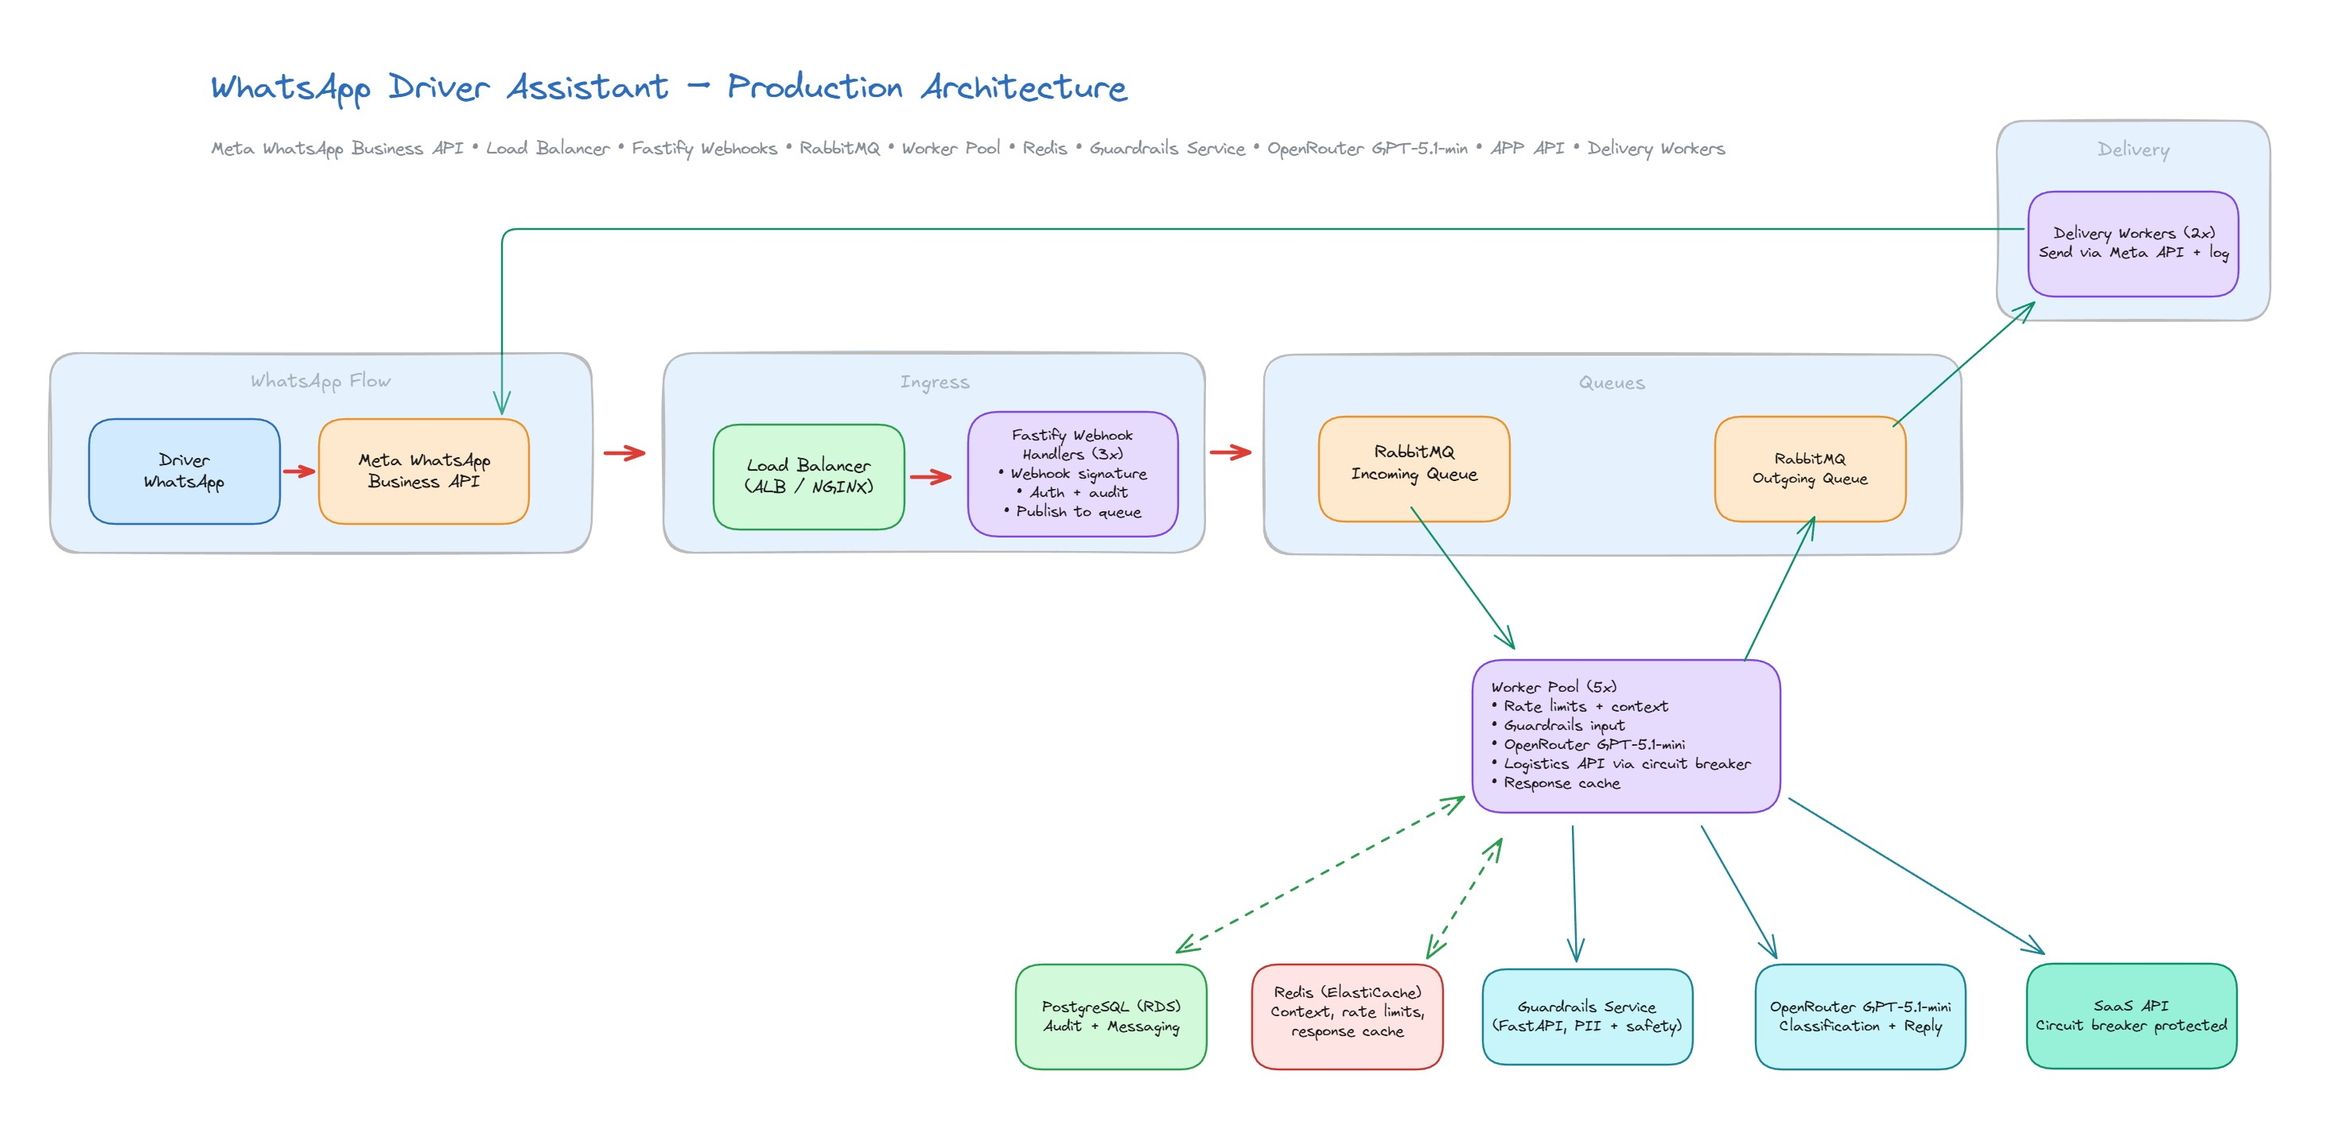
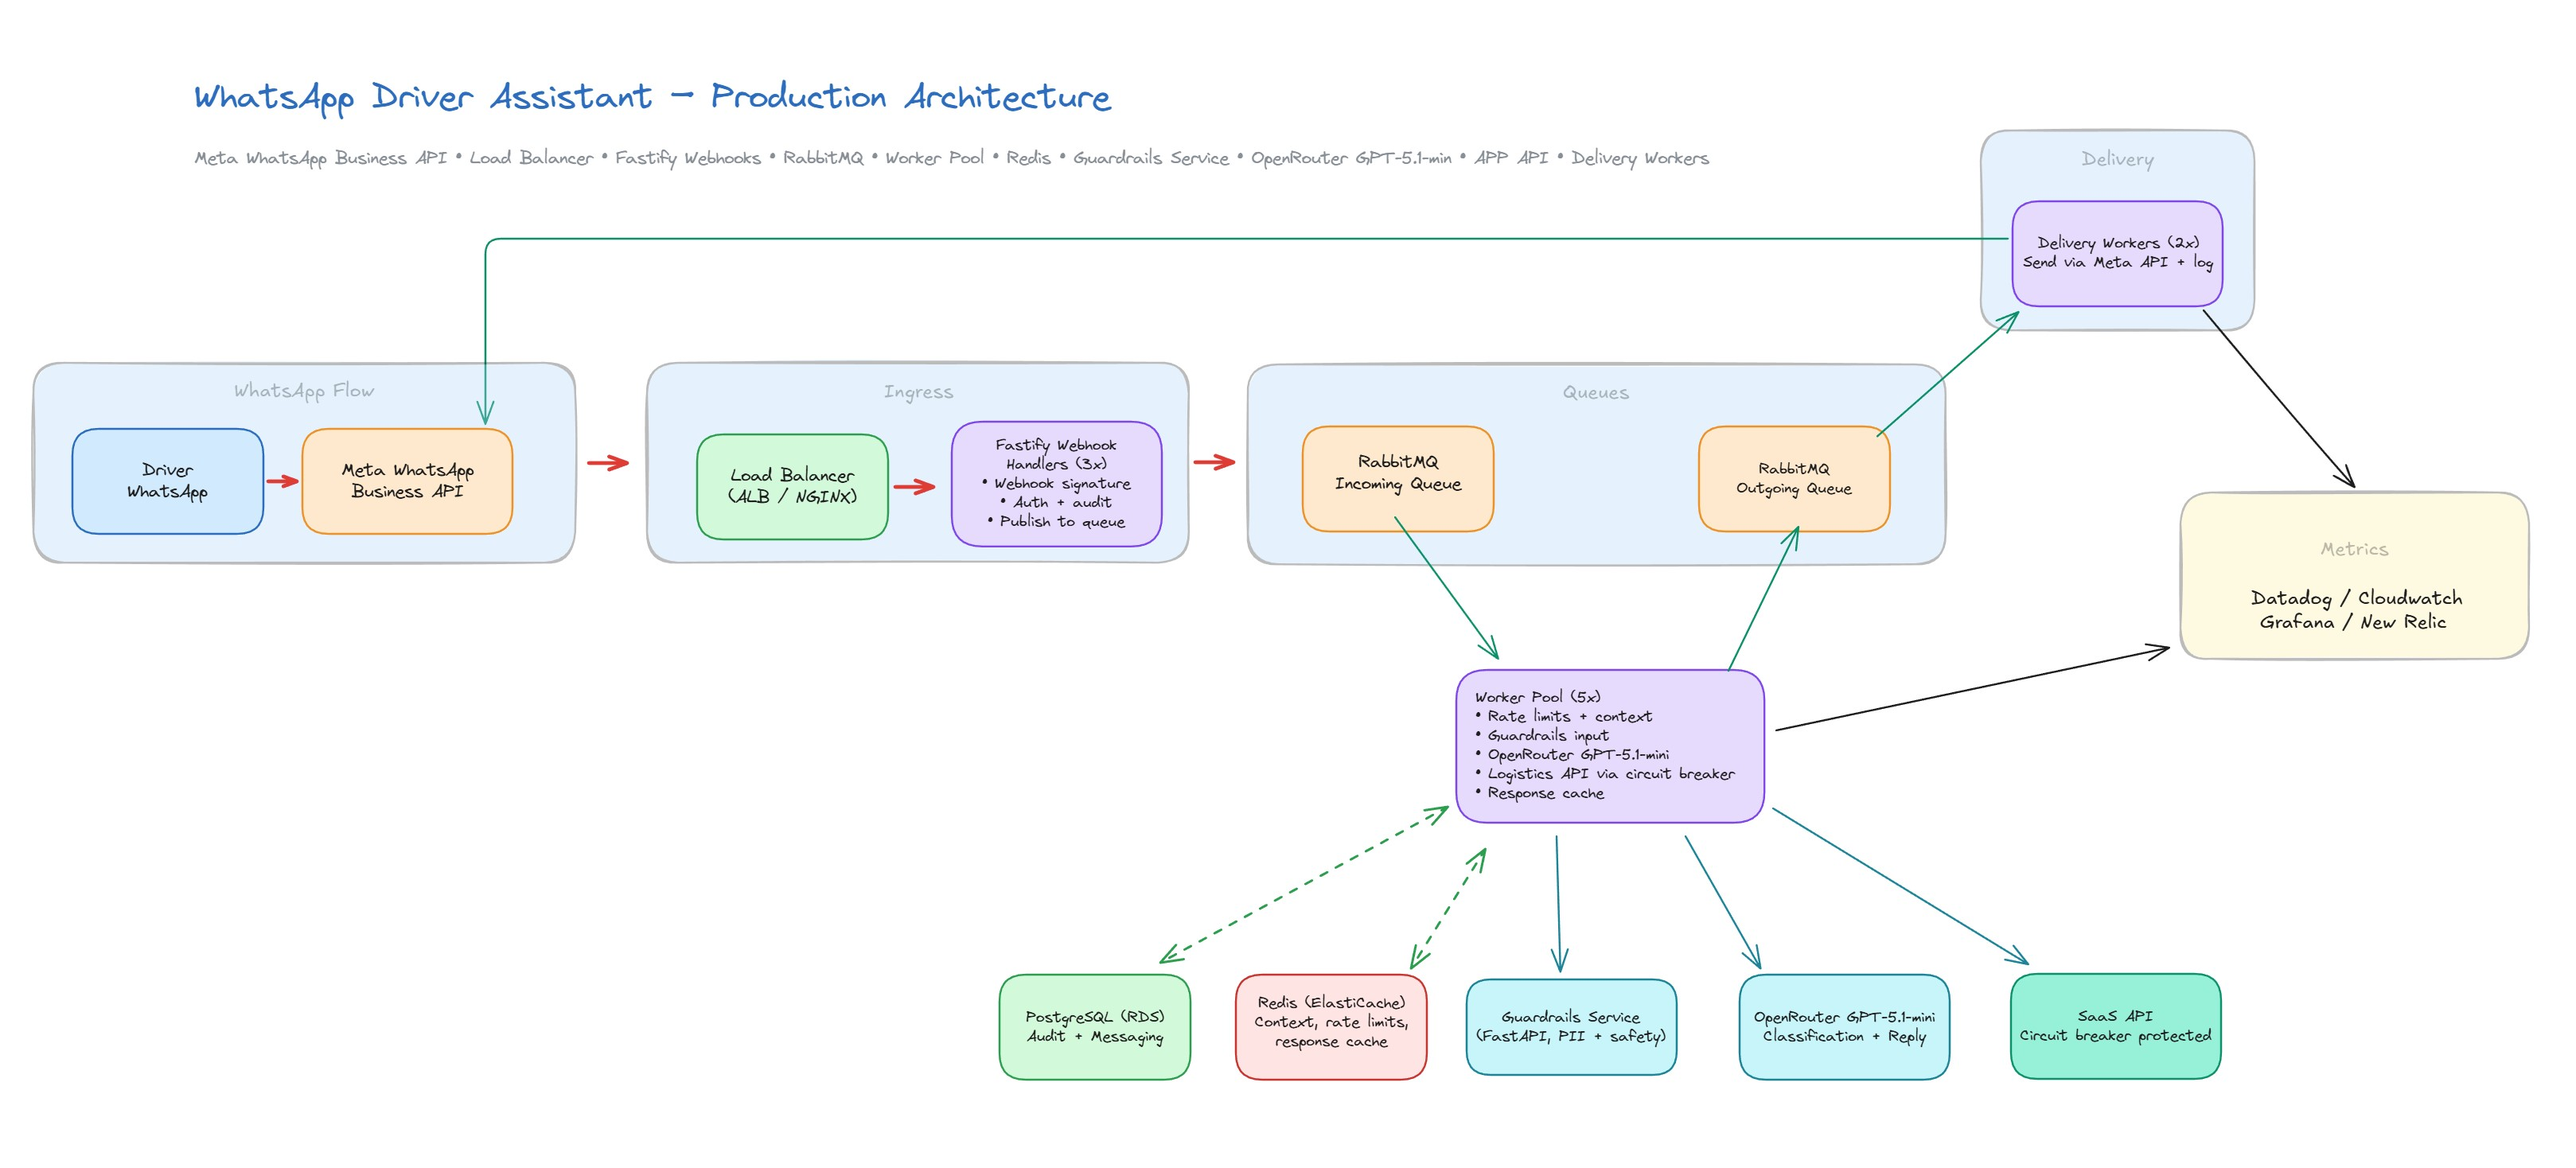
feat: update production flow

diff --git a/README_PRODUCTION.md b/README_PRODUCTION.md
@@ -11,8 +11,8 @@ A distributed, queue-based architecture that keeps the WhatsApp driver assistant
 
 ![Production Flow](./PRODUCTION-FLOW.jpg)
 
-**Flow (26 steps grouped into 7 phases):**
-1. **Message reception & authentication (1-8):** Driver sends WhatsApp message to Meta Business API. Meta forwards webhook to load balancer (ALB/NGINX) that routes to Fastify instances. Verify webhook signatures, authenticate driver, record message in PostgreSQL, return 200 OK immediately.
+**Flow:**
+1. **Message reception & authentication:** Driver sends WhatsApp message to Meta Business API. Meta forwards webhook to load balancer (ALB/NGINX) that routes to Fastify instances. Verify webhook signatures, authenticate driver, record message in PostgreSQL, return 200 OK immediately.
 2. **Message queuing:** Fastify webhook handler enqueues message to RabbitMQ incoming queue with durable queues and DLQs, decoupling ingress from processing.
 3. **Context & preparation:** Workers pull from queue, retrieve conversation context from Redis, authenticate driver against PostgreSQL, enforce rate limits via Redis, run input guardrails via Guardrails Service.
 4. **AI processing:** OpenRouter (GPT-4) performs intent classification and response generation via function calling.
@@ -71,6 +71,48 @@ A distributed, queue-based architecture that keeps the WhatsApp driver assistant
 
 ---
 
+## Supported Driver Actions
+
+**Core Interactions:**
+
+1. **Morning check-in:** 09:00 broadcast with personalized summary and "Reply 1 to accept or 2 to decline".
+   - Triggered via scheduled job or external system
+   - Personalized based on driver history and preferences
+   - Includes route summary, weather, and important notices
+
+2. **Accept all deliveries:** AI interprets acceptance, fetches today's orders, generates a short route summary, sends confirmation, and logs it.
+   - Natural language processing for variations ("yes", "ok", "1", "accept", etc.)
+   - Real-time integration with Logistics SaaS API
+   - Automatic route optimization suggestions
+   - Audit trail in PostgreSQL
+
+3. **Decline route:** AI classifies decline, notifies dispatch via webhook/email, replies to the driver, and records the decline reason.
+   - Reason extraction from driver message
+   - Immediate escalation to dispatch system
+   - Alternative driver assignment triggers
+   - Compliance tracking for labor regulations
+
+4. **Status updates:** Driver can send delivery status updates throughout the day.
+   - "Delivered to [location]"
+   - "Problem at stop X"
+   - "Running late due to traffic"
+   - AI extracts key information and updates logistics system
+
+5. **Help requests:** Natural language queries about deliveries, routes, or policies.
+   - "What's the address for order 123?"
+   - "How many stops left?"
+   - "What's the customer phone number?"
+   - Context-aware responses with rate limiting
+
+**Production Enhancements:**
+- **Multi-language support:** Automatic language detection and response
+- **Voice note transcription:** Process WhatsApp voice messages (via external service)
+- **Location sharing:** Process shared locations for POD (Proof of Delivery)
+- **Image processing:** Handle delivery photos and documents
+- **Proactive notifications:** Traffic alerts, weather warnings, route changes
+
+---
+
 ## AI Integration Strategy
 
 **See [Main README - AI Integration](./README.md#ai-integration-openrouter-with-gpt-55) for shared details.**
@@ -96,11 +138,108 @@ A distributed, queue-based architecture that keeps the WhatsApp driver assistant
 
 ---
 
+## Monitoring & Observability
+
+### Metrics Collection
+**Decision:** Implement comprehensive monitoring using Datadog/CloudWatch/Grafana/New Relic.  
+**Why:** Production requires real-time visibility into system health, performance bottlenecks, and business metrics.
+
+**Key Metrics:**
+- **System Metrics:**
+  - Queue depth (RabbitMQ incoming/outgoing)
+  - Worker pool utilization and throughput
+  - Response times (P50, P95, P99)
+  - Error rates by component
+  - Circuit breaker state changes
+  - Database connection pool status
+
+- **Business Metrics:**
+  - Messages processed per minute/hour
+  - Driver acceptance/decline rates
+  - AI token usage and costs
+  - Cache hit rates (Redis)
+  - Delivery success rates
+  - Response time to drivers
+
+- **Infrastructure Metrics:**
+  - CPU/Memory usage per service
+  - Network latency between components
+  - Disk I/O for databases
+  - Container/pod health
+  - Auto-scaling events
+
+### Alerting Strategy
+**Critical Alerts (PagerDuty):**
+- Queue depth > 1000 messages
+- Circuit breaker open for > 5 minutes
+- Error rate > 5% for 2 minutes
+- Database connection failures
+- Meta WhatsApp API authentication failures
+
+**Warning Alerts (Slack/Email):**
+- Queue depth > 500 messages
+- Cache hit rate < 70%
+- AI response time > 3 seconds
+- Worker memory usage > 80%
+- Unusual decline rates
+
+### Logging Architecture
+**Centralized Logging (ELK Stack or CloudWatch Logs):**
+- Structured JSON logs from all services
+- Correlation IDs for request tracing
+- Log levels: ERROR, WARN, INFO, DEBUG
+- Retention: 30 days hot, 1 year cold storage
+- PII masking in logs
+
+### Distributed Tracing
+**OpenTelemetry Integration:**
+- End-to-end request tracing
+- Latency breakdown by component
+- Dependency mapping
+- Performance bottleneck identification
+
+### Dashboards
+**Real-time Dashboards:**
+1. **Operations Dashboard:** System health, queue status, error rates
+2. **Business Dashboard:** Driver metrics, message volumes, SLA compliance
+3. **Cost Dashboard:** AI token usage, infrastructure costs, cache effectiveness
+4. **Security Dashboard:** Authentication failures, rate limit violations, guardrail triggers
+
+---
+
 ## Automation & Prototyping
 
-- **n8n workflow:** 39 nodes mirroring production flow for testing new intents and policies
-- **Why n8n:** Self-hosted, native Redis/RabbitMQ support, built-in guardrails, no per-step billing
-- **Path:** Prototype in n8n → translate to Fastify plugins → deploy with same infrastructure
+### Development & Testing Only
+- **n8n workflow:** mirroring production flow for testing new intents and policies
+- **Why n8n for prototyping:** Self-hosted, visual workflow builder, quick iteration, native integrations
+- **Path:** Prototype in n8n → translate to production code → deploy with real infrastructure
+
+### Production Alternatives to n8n
+
+**For Scheduled Jobs (Morning Check-ins):**
+- **AWS EventBridge + Lambda:** Serverless cron jobs for broadcasts
+- **Kubernetes CronJobs:** If running on K8s
+- **Bull/BullMQ:** Node.js queue with scheduling built on Redis
+- **Apache Airflow:** For complex scheduling dependencies
+
+**For Workflow Orchestration:**
+- **Temporal:** Durable execution framework, better for production workflows
+- **AWS Step Functions:** Managed state machines for complex flows
+- **Camunda:** BPMN-based workflow engine with better governance
+- **Custom TypeScript/Fastify:** Direct implementation for better performance
+
+**Why NOT n8n in Production:**
+- Performance overhead vs native code
+- Additional infrastructure to maintain
+- Potential single point of failure
+- Less control over error handling
+- Visual workflows harder to version control
+
+**Recommended Production Approach:**
+1. Use n8n for rapid prototyping and testing new flows
+2. Implement proven flows in TypeScript/Fastify workers
+3. Use specialized tools for specific needs (cron, queues, etc.)
+4. Keep n8n instance for business user experimentation only
 
 
 ## Summary
